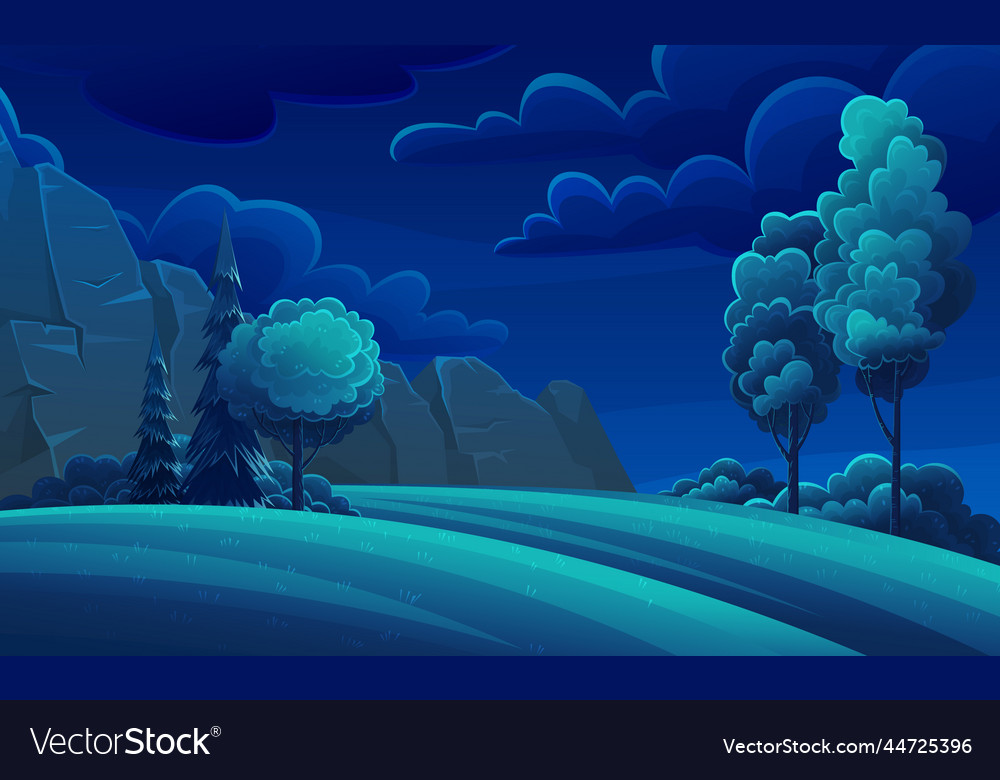
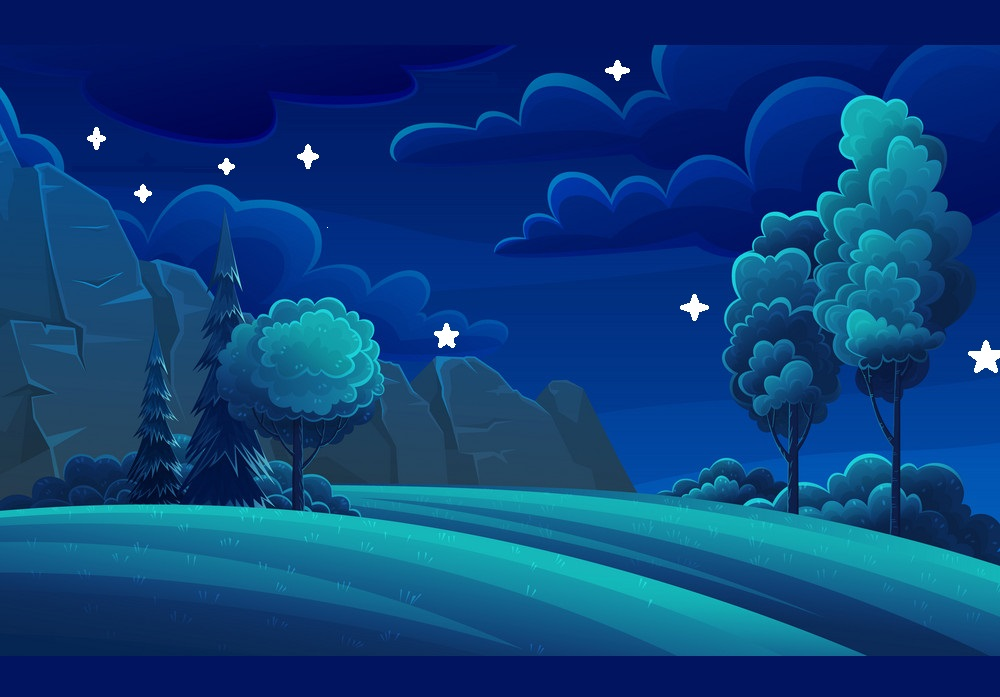
First Commit

diff --git a/index.html b/index.html
@@ -14,20 +14,6 @@
         <div class="sky">
             <div class="starcont">
                 <div class="stars" id="star1"></div>
-                <!-- <div class="stars" id="star2"></div>
-                <div class="stars" id="star3"></div>
-                <div class="stars" id="star4"></div> -->
-                <!-- <div class="stars" id="star5"></div>
-                <div class="stars" id="star6"></div>
-                <div class="stars" id="star7"></div>
-                <div class="stars" id="star8"></div>
-                <div class="stars" id="star9"></div>
-                <div class="stars" id="star10"></div>
-                <div class="stars" id="star11"></div>
-                <div class="stars" id="star12"></div>
-                <div class="stars" id="star13"></div>
-                <div class="stars" id="star14"></div>
-                <div class="stars" id="star15"></div> -->
             </div>
             <div class="trees"></div>
             <div class="track"></div>

diff --git a/style.css b/style.css
@@ -27,12 +27,13 @@ body {
 }
 
 .stars {
-    background-color: white;
+    background: linear-gradient(to right, white, rgb(208, 225, 249));
+    /* background: radial-gradient(blue, white); */
     height: 100px;
     width: 20%;
-    border-radius: 100%;
+    border-radius: 95%;
     border: 1.5px solid white;
-    box-shadow: 0 0 50px white;
+    box-shadow: 0 0 100px white;
     padding: 20px 50px;
     margin-left: 5%;
     z-index: 1000;
@@ -42,7 +43,7 @@ body {
 .trees {
     height: 100vh;
     width: 100%;
-    background-image: url(hill2.jpg);
+    background-image: url(hill2.1.png);
     background-size: cover;
     position: absolute;
     top: -144px;

diff --git a/script.js b/script.js
@@ -1,4 +1,4 @@
 var audio = document.createElement('audio');
 audio.setAttribute('src', 'sound.mp3');
 audio.loop = true;
-// audio.play();
+audio.play();
